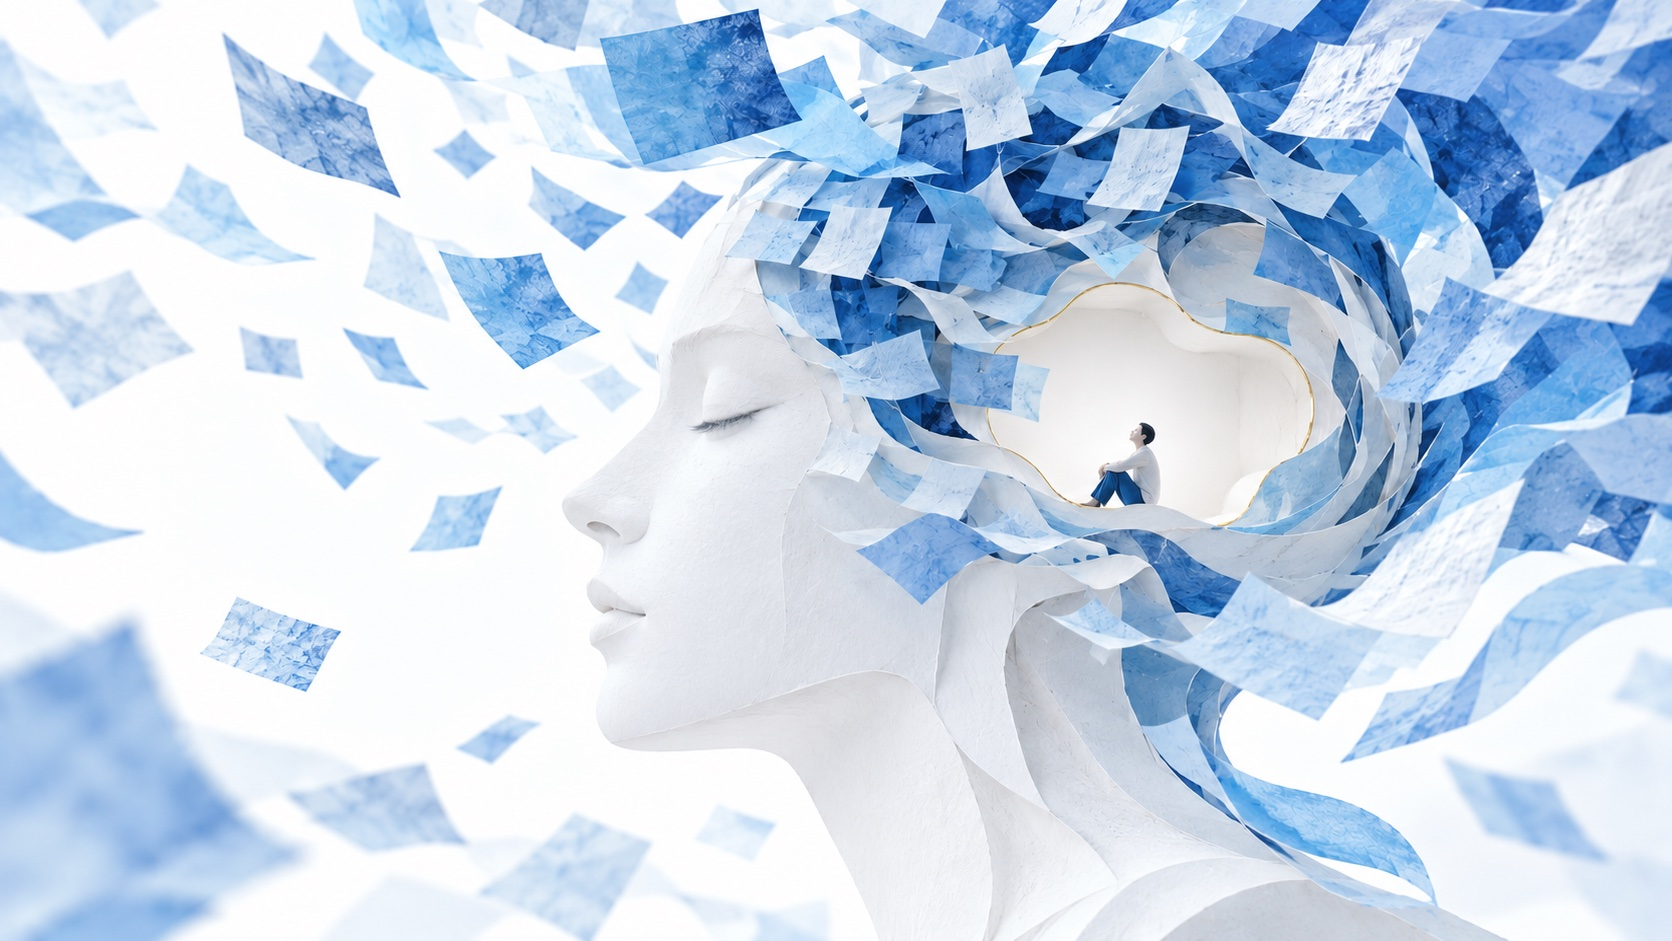
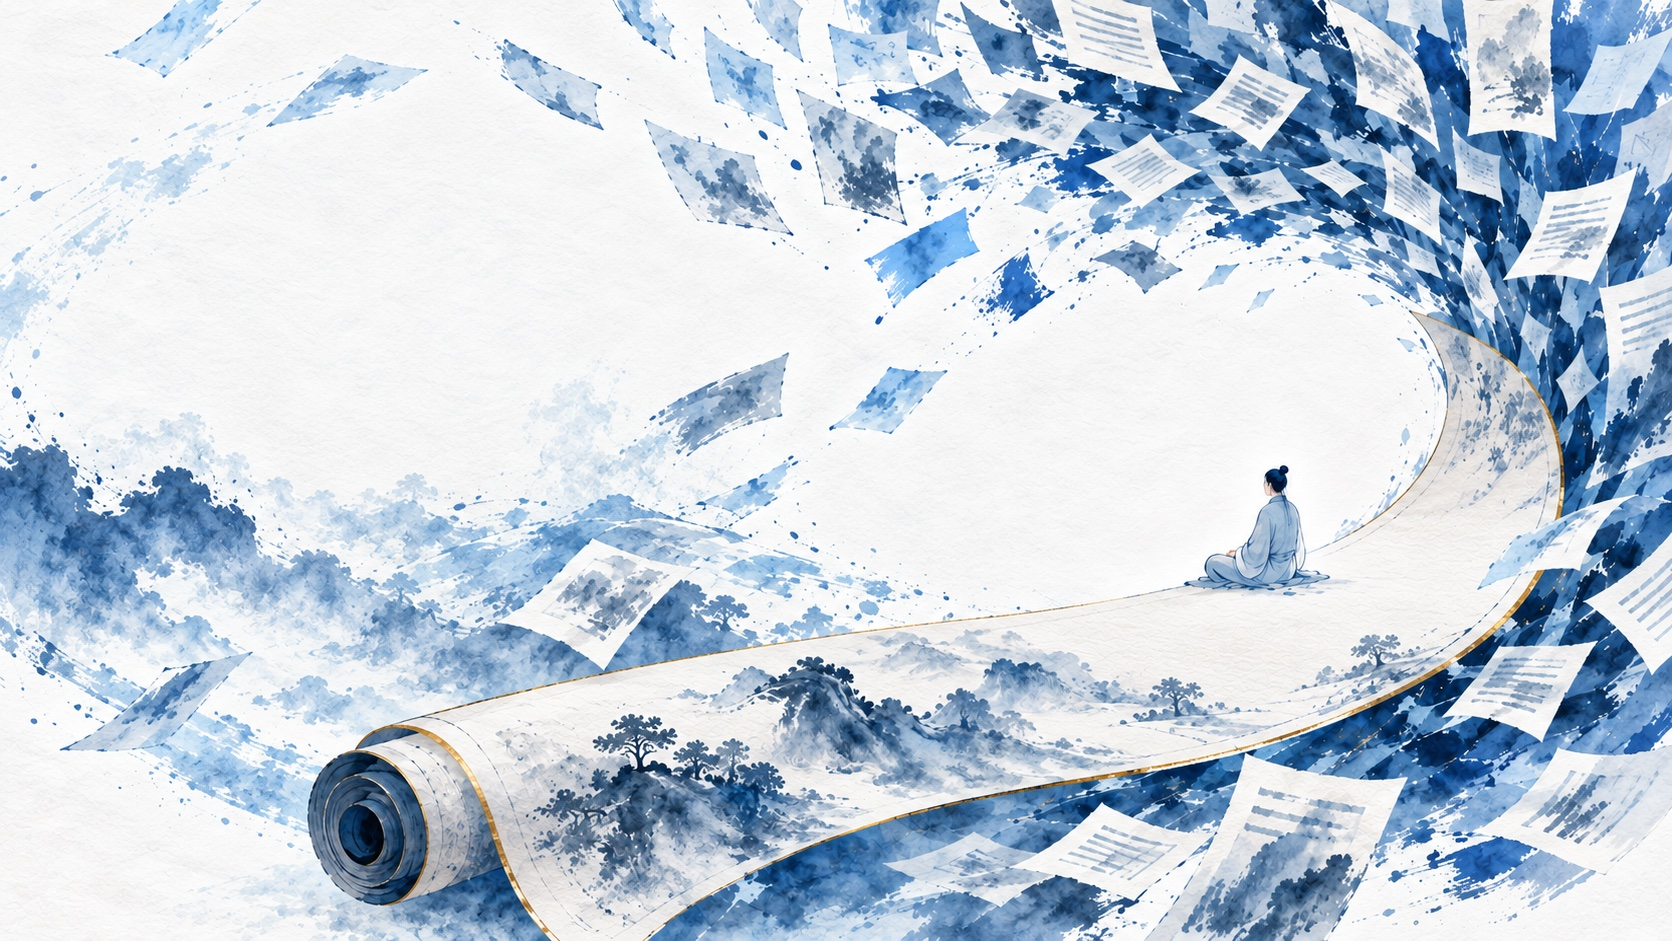
Restore Chinese ink aesthetic for blue-white-gold style

diff --git a/inkment-media-illustrations/references/visual-styles.md b/inkment-media-illustrations/references/visual-styles.md
@@ -11,11 +11,11 @@
 
 ## 02 夏香予文 · 蓝白金
 
-- 当代人文书刊气质，明亮、清澈、安静；白底为主，清透蓝 `#1557A0` 与浅蓝 `#78B9E4`、`#EEF7FC` 建立层次，深蓝 `#173A62` 用于少量结构与对比。
-- 中文宋体/明朝体与端正衬线体，标题清晰有力，正文与辅助文字疏朗；依靠留白、细线和轻盈材质组织画面。
-- 哑光金 `#C6A34A` 用作短线、细节或小面积重点，不主导大段标题与整体色调。
-- 具体画什么由文章观点和视觉母题决定。水纹、山景、书页、植物、器物都是可选物象；可用清爽插画、纸艺或摄影表达当代主题，保持相同的蓝白金设计语言。
-- 避免将人文气质固定成古风茶室、深色木窗、泛黄旧纸和繁复仿古边框；整体保持清亮、现代、可读。
+- 清雅中国风的人文书刊气质，安静、清澈、有书卷感；以中国绘画的气韵、虚实与留白组织画面。
+- 白底为主，清透蓝 `#1557A0` 与浅蓝 `#78B9E4`、`#EEF7FC` 建立层次，深墨蓝 `#173A62` 作局部强调；整体清亮疏朗。
+- 水墨写意、淡彩晕染、宣纸质感、笔触与线描；用疏密、轻重和留白表达情绪与观点，画面保留手绘气息。
+- 中文宋体/明朝体与清楚端正的书刊排字，标题准确可读，辅助文字疏朗。哑光金 `#C6A34A` 作为短线、轮廓或小面积点题。
+- 主体、物件与场景根据文章观点和视觉母题选择，用中国风的笔墨语言表达。水纹、山景、书卷、植物与器物都按母题需要选用，任何一种都不是固定组件；同样可以表达当代题材。
 
 ## 03 未来共生 · 黑白绿
 

diff --git a/README.md b/README.md
@@ -117,7 +117,7 @@ Skill 会把整篇文章重新编辑成图片流，为每张卡片列出：
 | 编号 | 风格 | 视觉气质 | 主要颜色 |
 |---:|---|---|---|
 | 01 | 墨布 · 黑白红 | 冷静、独立编辑、瑞士网格、档案拼贴 | 黑、白、灰、深红 |
-| 02 | 夏香予文 · 蓝白金 | 清爽、人文、现代书刊感 | 白、清透蓝、浅蓝、少量金 |
+| 02 | 夏香予文 · 蓝白金 | 清雅中国风、水墨写意、书卷感 | 白、清透蓝、浅蓝、少量金 |
 | 03 | 未来共生 · 黑白绿 | 未来科技、协作、系统感 | 黑、白、炭灰、荧光绿 |
 | 04 | 活力飞扬 · 绿橙彩 | 明快、热情、运动、行动力 | 绿、橙、红、蓝 |
 | 05 | 思潮碰撞 · 蓝黄撞色 | 观点鲜明、开放讨论、编辑张力 | 钴蓝、亮黄、黑、白 |
